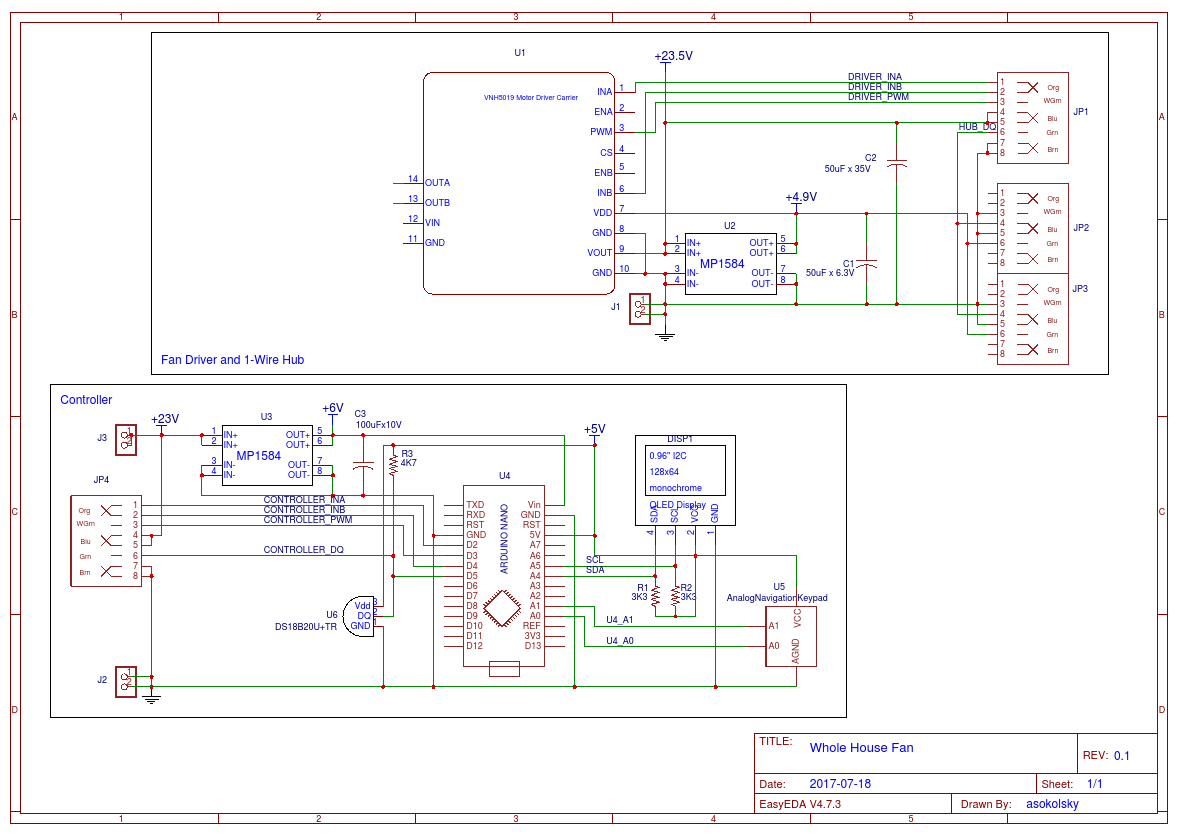
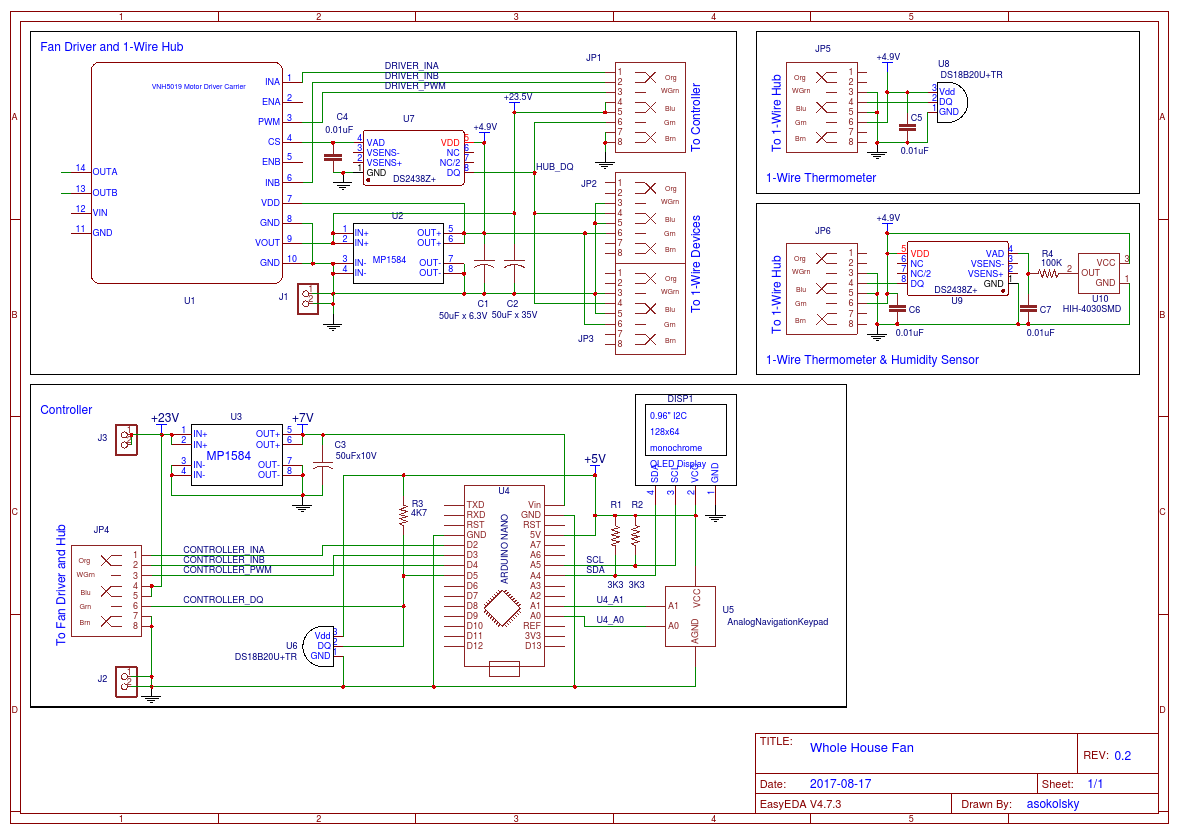
Small step forward

diff --git a/PCB.h b/PCB.h
@@ -8,6 +8,14 @@ const uint8_t pinCW = 2;
 const uint8_t pinCCW = 4;
 
  
-/** overheating LED */
+/** built-in LED */
 const uint8_t pinLed = 13;
+
+/** Keypad connection */
+const uint8_t pinKeyPad1 = A0;
+const uint8_t pinKeyPad2 = A1;
+
+/** display is on I2C which are these pins */
+const uint8_t pinI2C_SDA = A4;
+const uint8_t pinI2C_SCL = A5;
 

diff --git a/README.md b/README.md
@@ -15,7 +15,7 @@ Here is the plan!
 +----------------------+   |            |   +-----+
      +-----------------+   |     &      |   +------------------------------+
      | 1Wire devices   |==>|            |<=>| MCU with display with keypad |
-     +-----------------+|  |  1Wire Hub |==>|                              |
+     +-----------------+|  |  1Wire Hub |   |                              |
       +-----------------+  +------------+   +------------------------------+
 ```
 
@@ -38,8 +38,8 @@ Sensors will be terminated into RJ-11 or RJ-12 or RJ-45 connectors with the foll
 |      |  |  |1 |2  |3  |4  |  |  |RJ-11|
 |Sensor|  | |GND|DQ |GND|+5V|  |  ||
 
-If I decide to stick with a 3.3V MCU (higly likely) I will supply 3.3V to the sensors instead of 5V.
-I will need temerature sensors for:
+If I decide to stick with a 3.3V MCU (likely) I will supply 3.3V to the sensors instead of 5V.
+I will need temperature sensors for:
   * Network closet (in the housing with MCU/Display/Keypad)
   * Attic
   * North balcony
@@ -58,18 +58,16 @@ The simplest solution would be to just use a single MOSFET to drive the fan.  Bu
 https://www.pololu.com/product/1451
 
 ### Connection Between Fan Driver With Hub and MCU
-I think I will use a single CAT-6 cable with RJ-45 connector.
+I will use a single CAT-5 cable with RJ-45 connector.
 
 |Device|   |   |   |Pin |Out |   |   |   |Connector|
 |------|---|---|---|----|----|---|---|---|-----|
 |      |1  |2  |3  |4   |5   |6  |7  |8  |RJ-45|
 |      |INA|INB|PWM|+24V|+24V|DQ |GND|GND|     |
 
-Now the Driver supplies to Controller with power (note POE-compatible pin-out!) to be stepped down to +5V or +3.3V.
+Now the Driver supplies to Controller with power (note POE-compatible pin-out!) to be stepped down to power MCU.
 Controller supplies to the Driver INA, INB, PWM signals.
 Controller supplies to the Hub DQ.
-Driver supplies to the Hub 24V to be stepped down to +5V or +3.3V.
-
 
 ### MCU with display and a keypad
 I am thinking to start with something as simple as Nano. 
@@ -89,10 +87,12 @@ Details at https://easyeda.com/asokolsky/Whole_House_Fan-096c6e4a6d674583abff021
 
 
 ## Software
-For schematics and PCB check out 
-
+Work in progress.
 
 ## Libraries
+
+### NanoViews
+My C++ library offering MVC=like APIs to Display and Keyboard.  It in turn relies on u2g2 to abstract out display.
 
 ### DS18B20
 Use one of
